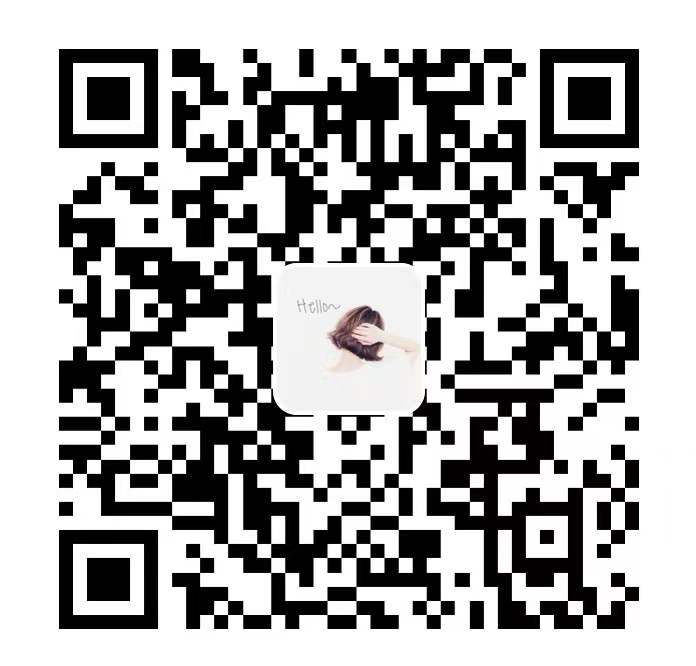
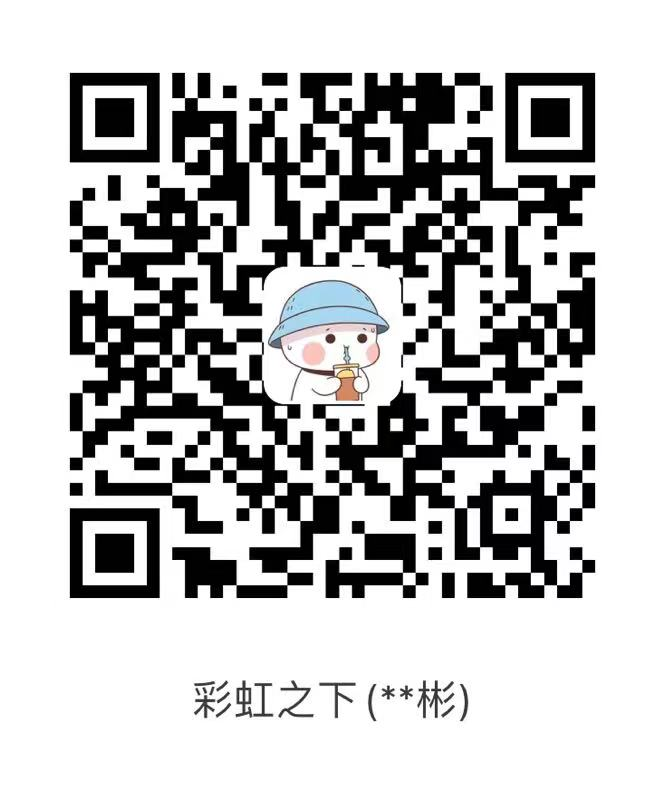
修改赞赏信息

diff --git a/src/components/reward.vue b/src/components/reward.vue
@@ -79,22 +79,12 @@ export default {
     return {
       rewardData: "", //赞赏二维码
       tableData: [
-        {
-          //赞赏数据
-          "payTime":"2021-10-23",
-          "name":"智障少女欢乐多",
-          "money":"188"
-        },
-        {
-          "payTime":"2021-10-28",
-          "name":"刺猬",
-          "money":"50"
-        },
-        {
-          "payTime":"2021-11-03",
-          "name":"迅捷小鹿",
-          "money":"30"
-        },
+        // {
+        //   //赞赏数据
+        //   "payTime":"2021-10-23",
+        //   "name":"智障少女欢乐多",
+        //   "money":"188"
+        // },
       ],
     };
   },

diff --git a/config/index.js b/config/index.js
@@ -14,7 +14,7 @@ module.exports = {
 
     // Various Dev Server settings
     host: 'localhost', // can be overwritten by process.env.HOST
-    port: 8080, // can be overwritten by process.env.PORT, if port is in use, a free one will be determined
+    port: 80, // can be overwritten by process.env.PORT, if port is in use, a free one will be determined
     autoOpenBrowser: false,
     errorOverlay: true,
     notifyOnErrors: true,
